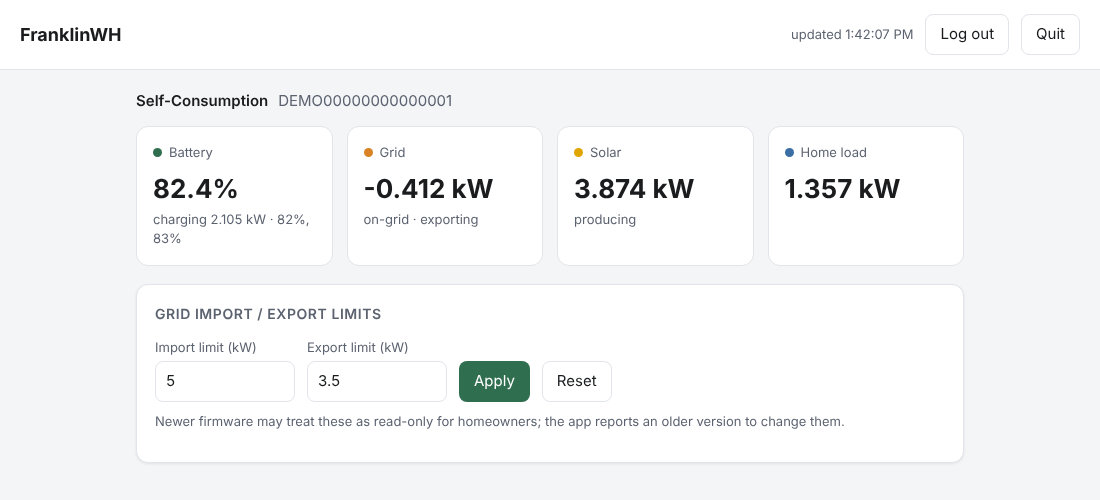
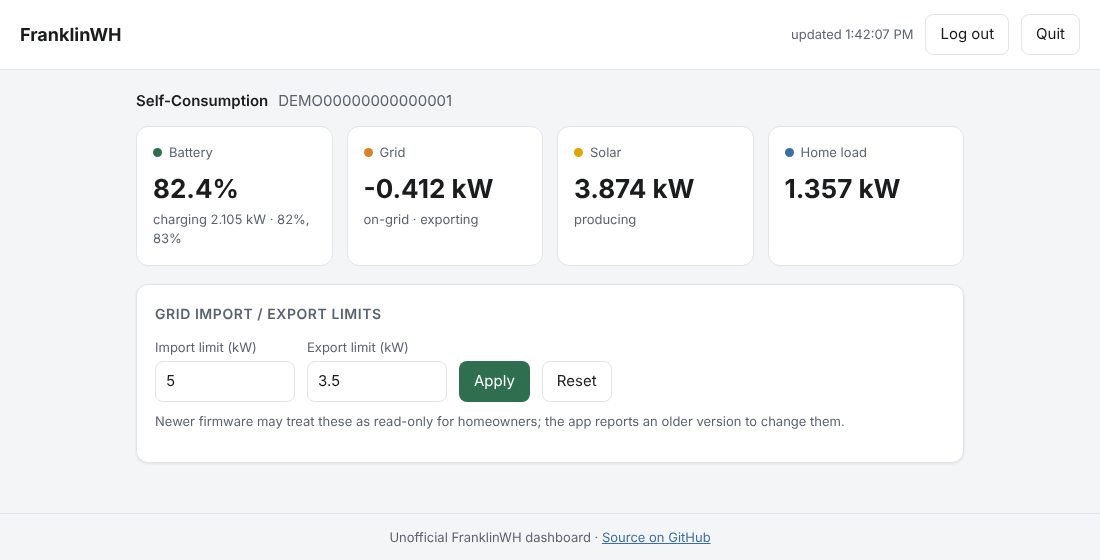
Web UI: add a footer linking to the GitHub repository
The dashboard (desktop and Android) gets a footer with a "Source on GitHub"
link; the page now fills the window so the footer sits at the bottom. In
the Android app the link opens in the browser. README screenshots updated.

Claude-Session: https://claude.ai/code/session_01BFKbcxif6KfC1GgVf8Chih

diff --git a/internal/gui/web/index.html b/internal/gui/web/index.html
@@ -33,7 +33,13 @@
   }
   header h1 { font-size: 18px; margin: 0; font-weight: 650; }
   header .spacer { flex: 1; }
-  main { max-width: 860px; margin: 0 auto; padding: 20px 16px 60px; }
+  /* Full-height column so the footer sits at the bottom of short pages. */
+  body { display: flex; flex-direction: column; min-height: 100vh; }
+  main { flex: 1; width: 100%; max-width: 860px; margin: 0 auto; padding: 20px 16px 32px; }
+  footer {
+    padding: 14px 16px 18px; text-align: center; font-size: 13px; color: var(--muted);
+    border-top: 1px solid var(--border);
+  }
   .hidden { display: none !important; }
   button {
     font: inherit; cursor: pointer; border: 1px solid var(--border);
@@ -134,6 +140,11 @@
     </div>
   </section>
 </main>
+
+<footer>
+  Unofficial FranklinWH dashboard ·
+  <a href="https://github.com/lanrat/franklinwh" target="_blank" rel="noopener noreferrer">Source on GitHub</a>
+</footer>
 
 <div id="toast"></div>
 
